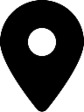
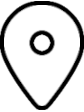
Marker-Change

diff --git a/src/components/screens/MapScreen.js b/src/components/screens/MapScreen.js
@@ -135,7 +135,7 @@ const MapScreen = ({ navigation }) => {
             coordinates={geodata}
             strokeWidth={5}
             strokeColor="black"
-            fillColor="rgba(0,0,0,0.135)"
+            fillColor="rgba(0,0,0,0)"
           />
           }
           
